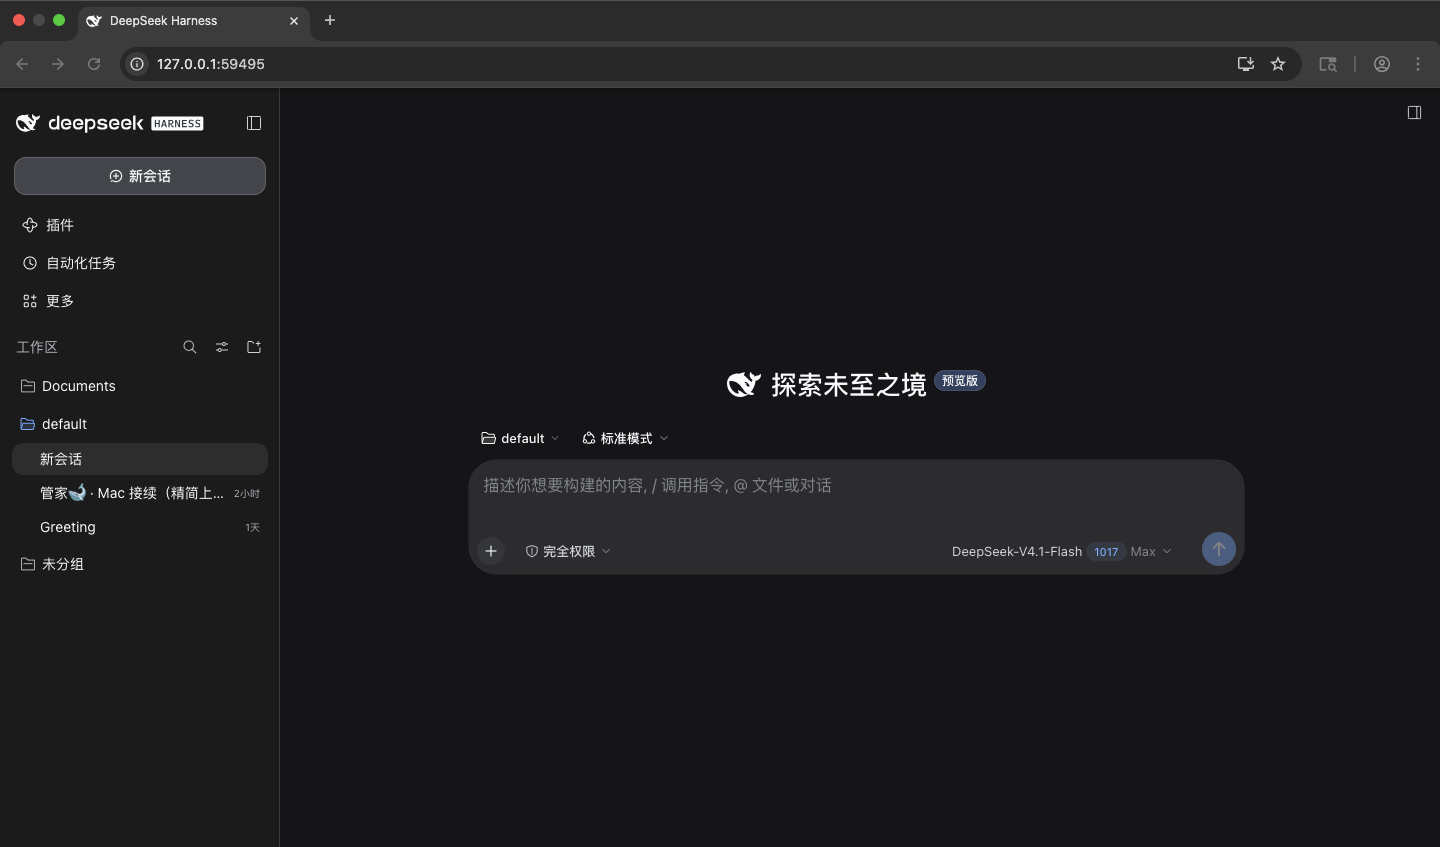
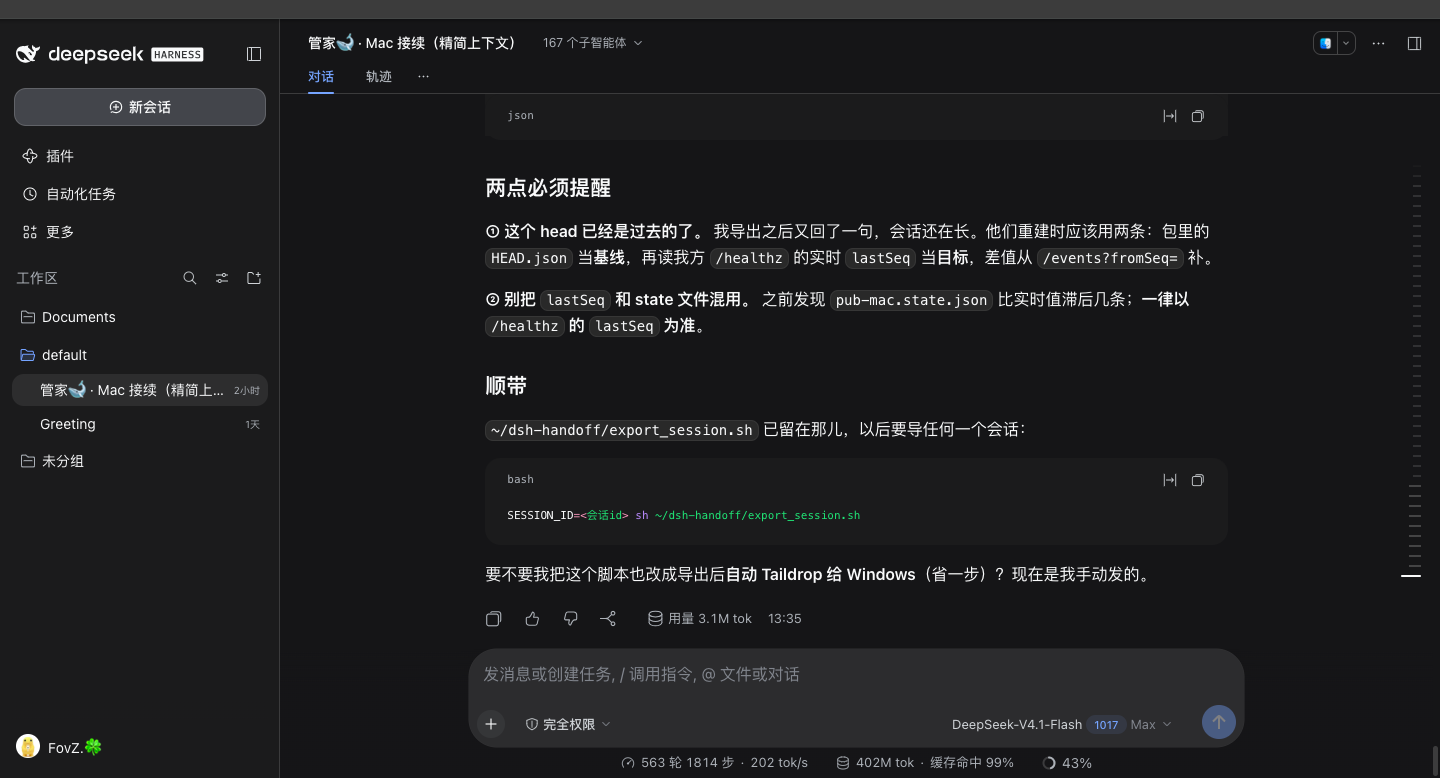
docs: add app screenshot

diff --git a/README.md b/README.md
@@ -8,6 +8,8 @@
 仓库里只有**自产脚本、补丁和文档**：不含上游任何源码、npm 包、二进制、`.asar`、`.app`、
 `.zip`；构建时所需的字节全部由脚本从公开来源（nodejs.org、registry.npmjs.org）下载。
 
+![DSH 在 macOS Big Sur 上运行（Chrome 驱动 Web UI）](docs/screenshot.png)
+
 *This repository contains build scripts and documentation only — no upstream code,
 npm packages, or binaries. It builds an **unofficial** DSH bundle for macOS 11 Big Sur
 on Intel x64 by downloading the official npm package at build time.*
